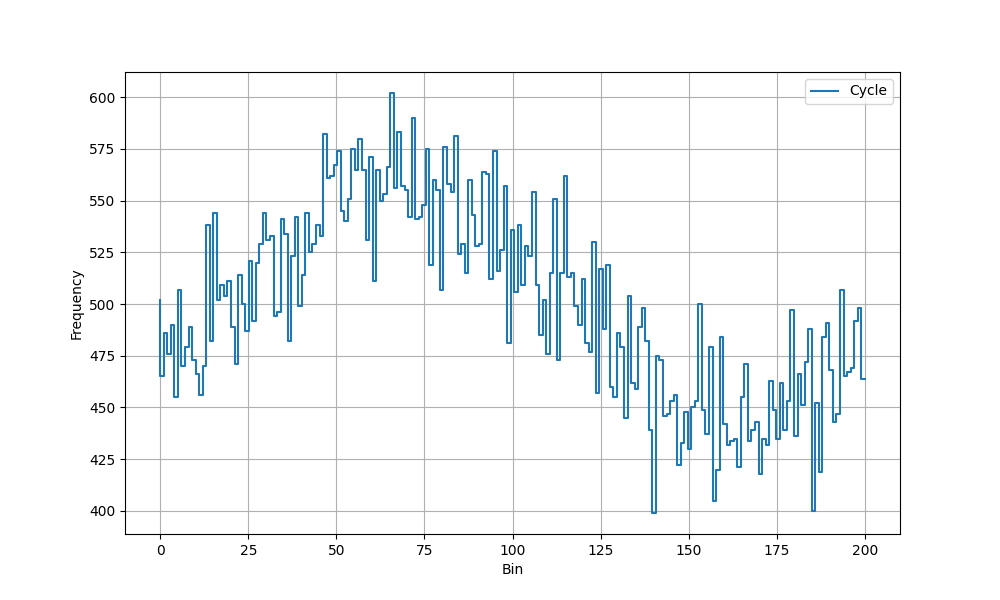
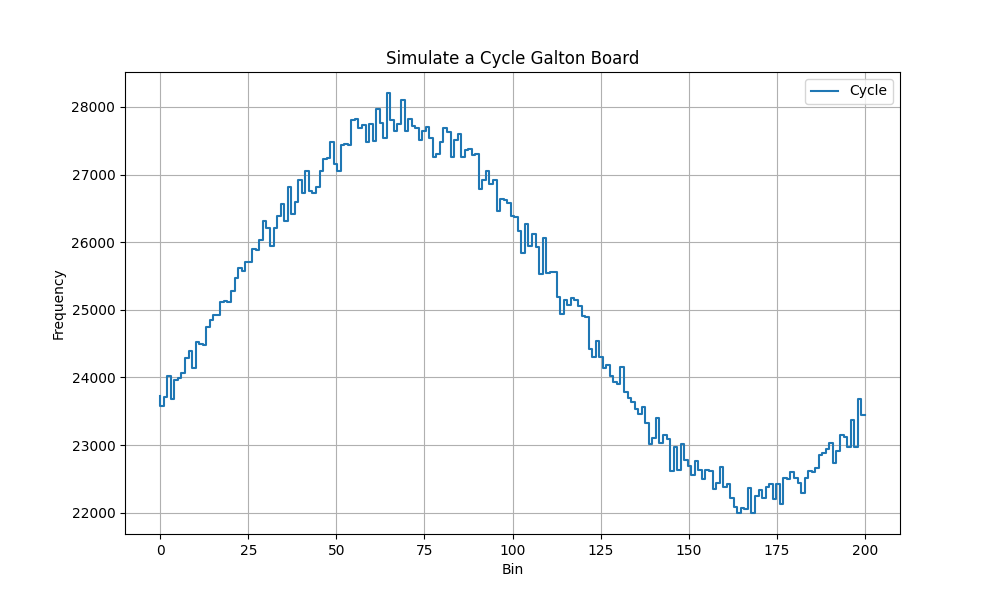
update.

diff --git a/Cycle_Galton_Board.py b/Cycle_Galton_Board.py
@@ -14,7 +14,7 @@ plt.plot(initial_n_bins,  n_bins, label='NBins')
 plt.plot(initial_n_bins, rn_mag, label='RNMag')
 plt.xlabel('Initial NBins')
 plt.ylabel('RNMag, NBins')
-plt.title('NBins  =  log( 6 x Initial NBins ) sqrt( π )\n RNMag = Initial NBins / sqrt( log2( Initial NBins ))' )
+plt.title('NBins  =  log( 6 x Initial NBins ) sqrt( π )\n RNMag = Initial NBins / sqrt( log2( Initial NBins ))')
 plt.legend()
 plt.grid(True)
 plt.show()
@@ -22,10 +22,7 @@ plt.show()
 ############################
 
 INITIAL_NBINS = 200
-TRIALS = 100000
-
-# Seed the random number generator (optional for reproducibility)
-fastrand.pcg32_seed(10)#np.random.seed( 10 )  # Replace 10 with any desired seed value
+TRIALS = 5000000
 
 def simulate_wave_galton_board(trials, initial_n_bins):
     """Simulates a Cycle Galton board with efficient random number generation and bin updating.
@@ -43,6 +40,9 @@ def simulate_wave_galton_board(trials, initial_n_bins):
 
     # Initialize cycle array
     cycle = np.zeros(initial_n_bins, dtype=np.uint64)  # Use uint64 to prevent overflow
+
+    # Seed the random number generator (optional for reproducibility)
+    fastrand.pcg32_seed(10)#np.random.seed( 10 )  # Replace 10 with any desired seed value
 
     for _ in range(trials):
         random_walk = np.uint64(0)
@@ -67,6 +67,7 @@ plt.figure(figsize=(10, 6))
 plt.step(initial_n_bins,  cycle, label='Cycle')
 plt.xlabel('Bin')
 plt.ylabel('Frequency')
+plt.title('Simulate a Cycle Galton Board')
 plt.legend()
 plt.grid(True)
 plt.show()
